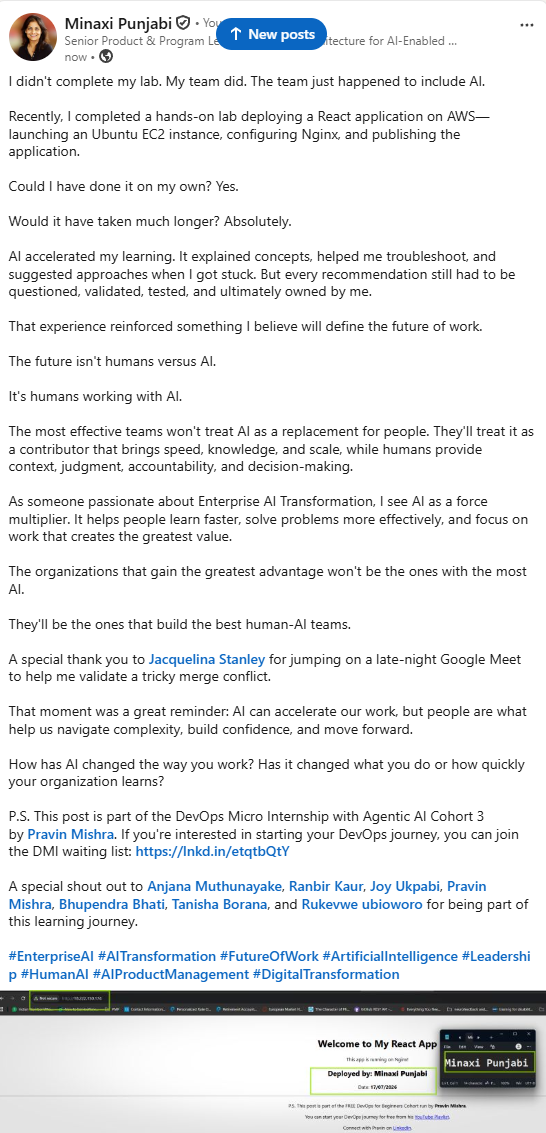
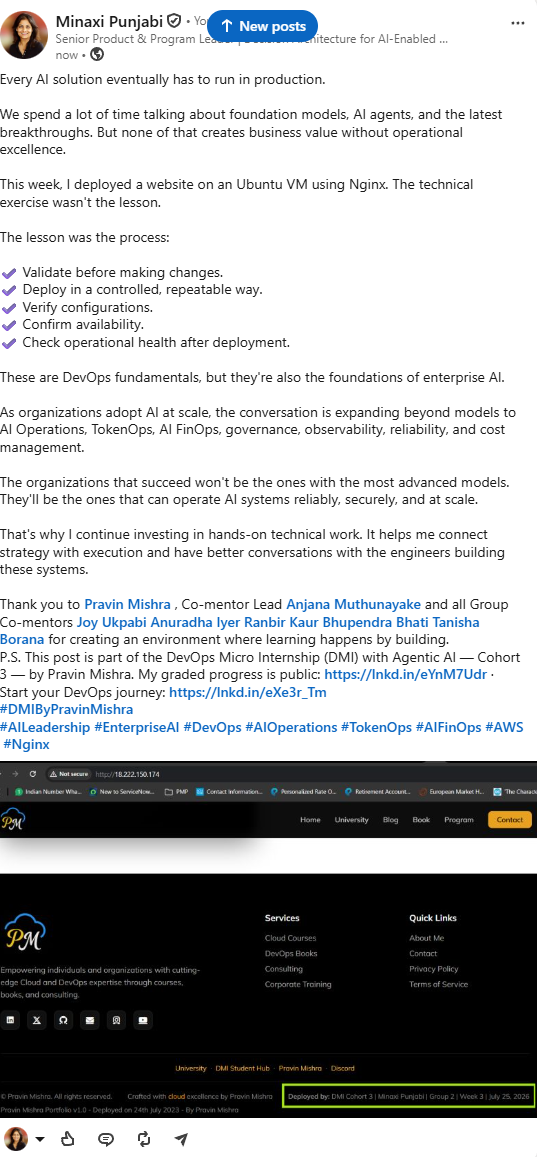
week 3 assignment 04 full upload

diff --git a/week-03-linux-and-bash-for-devops/assignment-04-deploy-epicreads-portfolio-website-via-nginx.md b/week-03-linux-and-bash-for-devops/assignment-04-deploy-epicreads-portfolio-website-via-nginx.md
@@ -20,7 +20,7 @@ Verify the Ubuntu VM and Nginx are ready for deployment.
 
 #### Screenshot 0 — Output of `sudo systemctl status nginx --no-pager` showing Active (running)
 
-Add your screenshot here.
+![Output of `sudo systemctl status nginx --no-pager`](screenshots/systemctlstatus.png)
 
 ---
 
@@ -34,7 +34,7 @@ Download and extract the portfolio website template.
 
 #### Screenshot 1 — Output of `ls -la` showing the extracted project folder
 
-Add your screenshot here.
+![Output of `ls -la` showing the extracted project folder](screenshots/extractedProjectFolder.png)
 
 ---
 
@@ -48,8 +48,8 @@ Update the website footer with your deployment details.
 
 #### Screenshot 2 — Nano editor open with the updated footer showing your Full Name, Group, Week, and Date
 
-Add your screenshot here.
-
+![Output of cat index.html | grep -A 3 "Crafted with"](screenshots/UpdatedFooter.png)
+![Nano editor open with the updated footer showing your Full Name, Group, Week, and Date](screenshots/NanoEditorUpdatedFooter.png)
 ---
 
 # Task 3 — Deploy Website via Nginx
@@ -62,13 +62,12 @@ Deploy the portfolio website to the Nginx web root.
 
 #### Screenshot 3 — Output of `sudo nginx -t` showing configuration test successful
 
-Add your screenshot here.
-
+![sudo nginx -t` showing configuration test successful](screenshots/nginx-t.png)
 ---
 
 #### Screenshot 4 — Output of `ls /var/www/html` showing deployed website files
 
-Add your screenshot here.
+![Output of `ls /var/www/html`](screenshots/lslivedeploy.png)
 
 ---
 
@@ -82,13 +81,13 @@ Verify the deployed website is publicly accessible and the footer contains your 
 
 #### Screenshot 5 — Output of `curl ifconfig.me` showing the server's public IP address
 
-Add your screenshot here.
+![Output of `curl ifconfig.me`](screenschots/curliconfig.png)
 
 ---
 
 #### Screenshot 6 — Browser showing the live website with your Full Name and deployment details in the footer
 
-Add your screenshot here.
+![Browser showing the live website with your Full Name and deployment details in the footer](screenshots/DeployednewfooterwithNameDate.png)
 
 ---
 
@@ -102,13 +101,13 @@ Verify the deployed website and Nginx service are healthy.
 
 #### Screenshot 7 — Output of `systemctl is-enabled nginx`
 
-Add your screenshot here.
+![Output of `systemctl is-enabled nginx`](screenshots/enablednginx.png)
 
 ---
 
 #### Screenshot 8 — Output of `curl -I http://localhost` showing 200 OK
 
-Add your screenshot here.
+![Output of 'curl -I http://localhost`](screenshots/localhost.png)
 
 ---
 
@@ -120,13 +119,13 @@ Add your screenshot here.
 
 Paste your LinkedIn post URL here:
 
-`Add your URL here`
+[`https://www.linkedin.com/posts/minaxi-punjabi_dmibypravinmishra-aileadership-enterpriseai-share-7486728014987403264-qjVy/?utm_source=share&utm_medium=member_desktop&rcm=ACoAABqPfm0BltUSV7lY0aKhl1BWZCRBhv3K4iQ`](https://www.linkedin.com/posts/minaxi-punjabi_dmibypravinmishra-aileadership-enterpriseai-share-7486728014987403264-qjVy/?utm_source=share&utm_medium=member_desktop&rcm=ACoAABqPfm0BltUSV7lY0aKhl1BWZCRBhv3K4iQ)
 
 ---
 
 #### Screenshot — Published LinkedIn post showing the live website with your Full Name in the footer
 
-Add your screenshot here.
+![Published LinkedIn post](screenshots/linkedin%20deploy%20image.png)
 
 ---
 
